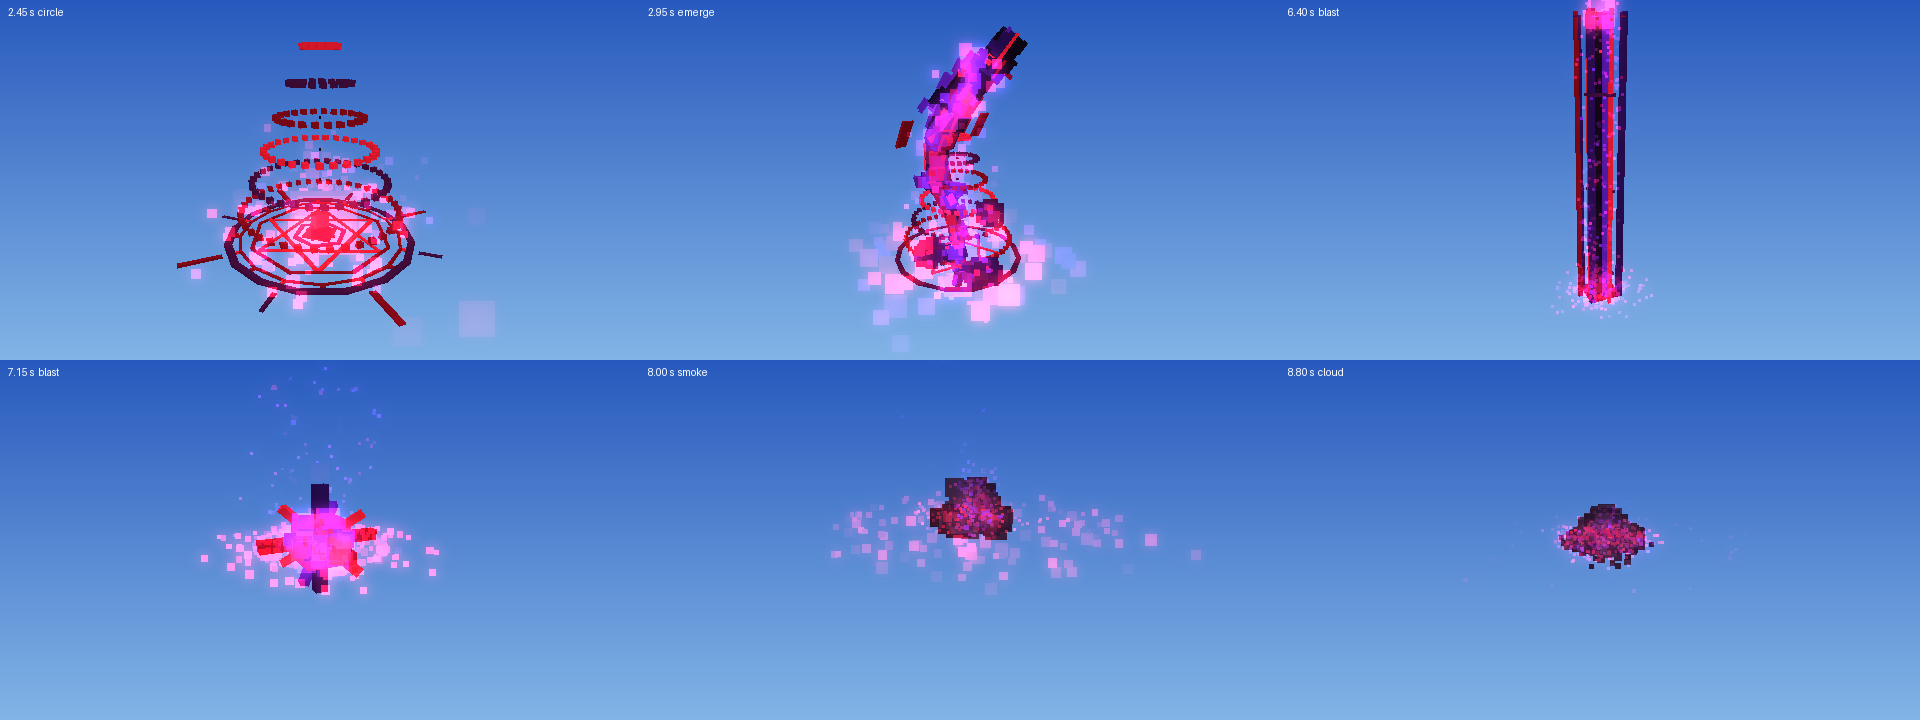
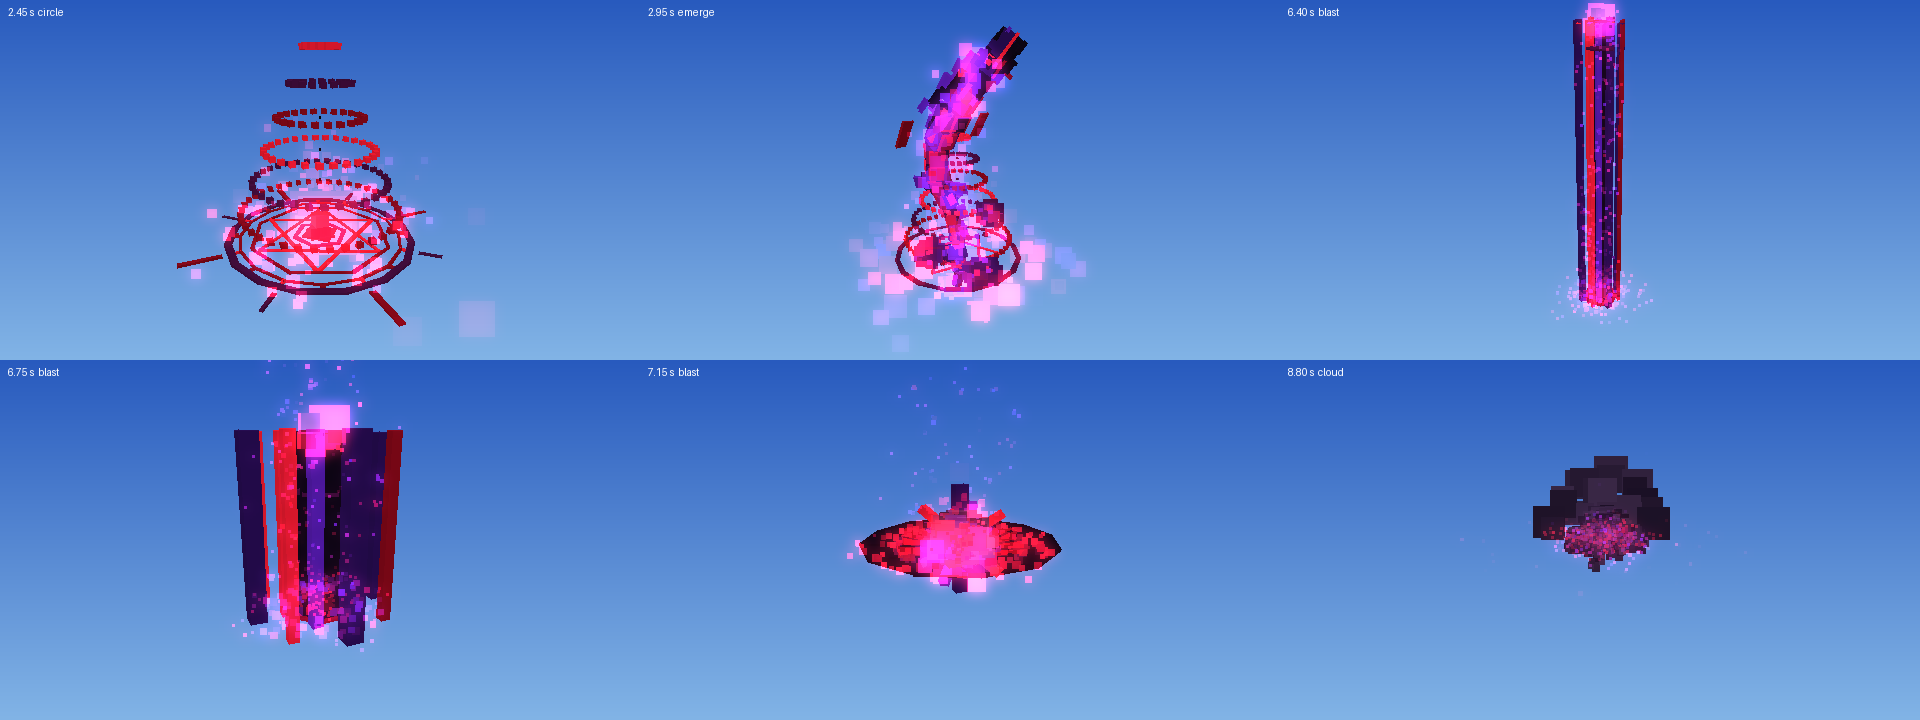
Round beam (eight-sided core, foot and collars) and a rounder, bigger explosion: ball, 22 spikes, round shock discs, particle dome

diff --git a/dragon_pulse/world_code.js b/dragon_pulse/world_code.js
@@ -182,35 +182,57 @@ var DP_MESH = {
   ],
 
   beam: [
-    ["M", 1.3, 1, 1.3, "void", 0, 0, 0, "spin"],
-    ["M", 0.35, 1, 0.35, "crimson", 1.1, 0, 0],
-    ["M", 0.35, 1, 0.35, "crimson", -1.1, 0, 0],
-    ["M", 0.35, 1, 0.35, "deep", 0, 1.1, 0, "m"],
+    ["M", 0.61, 1, 1.48, "void", 0, 0, 0],
+    ["M", 0.61, 1, 1.48, "void", 0, 0, 0, "", 45],
+    ["M", 0.61, 1, 1.48, "void", 0, 0, 0, "", 90],
+    ["M", 0.61, 1, 1.48, "void", 0, 0, 0, "", 135],
+    ["M", 0.35, 1, 0.35, "crimson", 1.15, 0, 0],
+    ["M", 0.35, 1, 0.35, "crimson", -1.15, 0, 0],
+    ["M", 0.35, 1, 0.35, "deep", 0.575, 0.996, 0, "m"],
+    ["M", 0.35, 1, 0.35, "deep", -0.575, 0.996, 0, "m"],
   ],
 
   beam2: [
-    ["M", 0.5, 1, 0.5, "night", 1.55, 1.55, 0, "m"],
-    ["M", 0.5, 1, 0.5, "night", -1.55, 1.55, 0, "m"],
-    ["M", 0.28, 1, 0.28, "blood", 2.3, 0, 0],
-    ["M", 0.28, 1, 0.28, "blood", -2.3, 0, 0],
-    ["M", 0.28, 1, 0.28, "crimson", 0, 2.3, 0, "m"],
+    ["M", 0.5, 1, 0.5, "night", 2.1, 0, 0],
+    ["M", 0.5, 1, 0.5, "night", -2.1, 0, 0],
+    ["M", 0.5, 1, 0.5, "night", 0, 2.1, 0, "m"],
+    ["M", 0.28, 1, 0.28, "blood", 1.485, 1.485, 0, "m"],
+    ["M", 0.28, 1, 0.28, "crimson", -1.485, 1.485, 0, "m"],
   ],
 
   blast: [
-    ["M", 1.2, 1.2, 1.2, "crimson", 0, 0, 0, "spin"],
+    ["M", 1.1, 1.1, 1.1, "crimson", 0, 0, 0],
+    ["M", 1.1, 1.1, 1.1, "crimson", 0, 0, 0, "f"],
+    ["M", 1.1, 1.1, 1.1, "blood", 0, 0, 0, "o"],
     ["M", 3.4, 0.3, 0.3, "blood", 0, 0, 0],
     ["M", 0.34, 3, 0.34, "night", 0, 0, 0],
     ["M", 0.3, 0.3, 3.4, "blood", 0, 0, 0],
+    ["M", 0.3, 0.3, 3.4, "blood", 0, 0, 0, "f"],
+    ["M", 0.3, 0.3, 3.4, "blood", 0, 0, 0, "g"],
+    ["M", 0.2, 0.2, 2.6, "night", 0, 0, 0, "u"],
+    ["M", 0.2, 0.2, 2.6, "night", 0, 0, 0, "v"],
+    ["M", 0.2, 0.2, 2.6, "night", 0, 0, 0, "w"],
+    ["M", 0.2, 0.2, 2.6, "night", 0, 0, 0, "x"],
     ["M", 0.22, 0.22, 2.8, "crimson", 0, 0, 0, "a"],
     ["M", 0.22, 0.22, 2.8, "deep", 0, 0, 0, "b"],
     ["M", 0.22, 0.22, 2.8, "deep", 0, 0, 0, "c"],
     ["M", 0.22, 0.22, 2.8, "crimson", 0, 0, 0, "d"],
+    ["M", 1.37, 0.05, 5.12, "void", 0, 0, 0],
+    ["M", 1.37, 0.05, 5.12, "void", 0, 0, 0, "h"],
+    ["M", 1.37, 0.05, 5.12, "void", 0, 0, 0, "j"],
+    ["M", 1.37, 0.05, 5.12, "void", 0, 0, 0, "q"],
+    ["M", 1.37, 0.05, 5.12, "void", 0, 0, 0, "y"],
+    ["M", 1.37, 0.05, 5.12, "void", 0, 0, 0, "z"],
+    ["M", 1.19, 0.1, 2.86, "blood", 0, 0, 0],
+    ["M", 1.19, 0.1, 2.86, "blood", 0, 0, 0, "f"],
+    ["M", 1.19, 0.1, 2.86, "blood", 0, 0, 0, "q"],
+    ["M", 1.19, 0.1, 2.86, "blood", 0, 0, 0, "g"],
   ],
 
   beamTop: [
-    ["M", 2.2, 2.2, 2.2, "crimson", 0, 0, 0, "spin"],
-    ["M", 4.4, 0.16, 4.4, "blood", 0, 0, 0, "spin"],
-    ["M", 2.8, 0.26, 2.8, "wine", 0, 0, 0, "spin"],
+    ["M", 2.2, 2.2, 2.2, "crimson", 0, 0, 0],
+    ["M", 1.84, 0.16, 4.43, "blood", 0, 0, 0],
+    ["M", 1.22, 0.26, 2.96, "wine", 0, 0, 0],
   ],
 }
 
@@ -222,7 +244,24 @@ var DP_ORBS = [
   [-17.5, 1.5, 0.2],
 ]
 
-var DP_DIAG = { a: [1, 1, 1], b: [-1, 1, 1], c: [1, 1, -1], d: [-1, 1, -1] }
+var DP_DIAG = {
+  a: [1, 1, 1],
+  b: [-1, 1, 1],
+  c: [1, 1, -1],
+  d: [-1, 1, -1],
+  f: [1, 0, 1],
+  g: [1, 0, -1],
+  h: [0.5, 0, 0.866],
+  j: [0.866, 0, 0.5],
+  q: [1, 0, 0],
+  y: [0.866, 0, -0.5],
+  z: [0.5, 0, -0.866],
+  o: [0, 1, 1],
+  u: [0.924, 0, 0.383],
+  v: [0.383, 0, 0.924],
+  w: [-0.383, 0, 0.924],
+  x: [-0.924, 0, 0.383],
+}
 
 var DP_FX = {
   mote: { tex: "glint", life: [0.5, 0.9], size: [0.15, 0.35], speed: [2, 5], col: ["tint", "tint2"], fade: [1, 0], blend: 2 },
@@ -393,9 +432,18 @@ function dpBars(c, name, tag, base, k, w, tall) {
     dpPut(c, tag + i, r, "", dpAt(base, DP_UP, r[5] * w, r[6] * w, tall / 2), null, k)
     var box = dpBox(r, "", w)
     box.height = tall
-    if (c.m[tag + i]) api.updateMeshEntity(c.m[tag + i], "Box", box)
+    if (!c.m[tag + i]) return
+    api.updateMeshEntity(c.m[tag + i], "Box", box)
+    if (r[9]) api.setEntityRotation(c.m[tag + i], 0, (r[9] * Math.PI) / 180, 0)
   })
 }
+
+var dpTurn = [
+  [0, 0, 1],
+  [0.707, 0, 0.707],
+  [1, 0, 0],
+  [0.707, 0, -0.707],
+]
 
 function dpBeam(c, base, k, tall, wide, two) {
   var w = k * (wide || 1)
@@ -405,8 +453,8 @@ function dpBeam(c, base, k, tall, wide, two) {
   dpSize = 2 * k
   dpShape("ray", dpAdd(base, [0, 1, 0], tall), dpBall(10), 1.1 * k, 0)
   dpSize = 1
-  dpPut(c, "beam_base", top[1], "", dpAdd(base, [0, 1, 0], 0.1), null, k)
-  for (var n = 0; n < 3; n++) dpPut(c, "beam_ring" + n, top[2], "", dpAdd(base, [0, 1, 0], tall * ((n / 3 + c.t * 0.11) % 1)), null, k)
+  for (var n = 0; n < 4; n++) dpPut(c, "beam_base" + n, top[1], "", dpAdd(base, [0, 1, 0], 0.1), dpTurn[n], w)
+  for (var n = 0; n < 8; n++) dpPut(c, "beam_ring" + n, top[2], "", dpAdd(base, [0, 1, 0], tall * (((n >> 2) / 2 + c.t * 0.11) % 1)), dpTurn[n % 4], k)
   dpFx("mote", base, 8, 1.4 * k, "magenta", "white", [0, 1, 0])
   dpFx("flash", dpAdd(base, [0, 1, 0], tall), 6, k)
   dpFx("glow", dpAdd(base, [0, 1, 0], tall), 2, k, "magenta")
@@ -448,6 +496,12 @@ function dpBlast(c, base, k, e, ring) {
   dpFx("ember", base, 8, ring * g * 0.5, "crimson", "blood", null, 2)
   if (e % 3 === 0) dpFx("wave", base, 14, 0.5)
   if (e % 2 === 0) dpRingFx("shock", base, ring * (0.1 + g * 0.8), 4, 1, 0.08, "crimson", "blood", 10, e * 0.4)
+  if (e === 0 || e === 4) {
+    var dome = dpBall(e ? 40 : 56).filter((d) => d[1] > -0.05)
+    dpSize = k * (e ? 1.6 : 1.2)
+    dpShape(e ? "puff" : "front", dpAdd(base, [0, 1, 0], k), dome, ring * 0.12, ring * (e ? 0.5 : 1.5), "crimson", "blood", e ? 1 : 0)
+    dpSize = 1
+  }
   if (e === 0) {
     dpFx("glow", base, 10, 3 * k, "crimson")
     dpRingFx("smoke", base, ring * 0.2, 4, 1, 0.3, "", "", 8)

diff --git a/dragon_pulse/tools/render.py b/dragon_pulse/tools/render.py
@@ -127,7 +127,7 @@ strip.resize((W * 2, H * 3 // 2)).save(os.path.join(out, 'timeline.png'))
 # Six moments from close by. The last two are two dragons that met.
 tick_of = lambda frames, ph, i: [f['t'] for f in frames if f['ph'] == ph][i]
 shots = [(one, one_live, 0, -1, 11), (one, one_live, 1, 9, 16), (one, one_live, 5, 22, 75),
-         (one, one_live, 5, 37, 45), (one, one_live, 6, 5, 30), (two, two_live, 9, 9, 110)]
+         (one, one_live, 5, 29, 40), (one, one_live, 5, 37, 45), (two, two_live, 9, 9, 110)]
 sheet = Image.new('RGB', (W * 3, H * 2))
 for i, (frames, live, ph, at, back) in enumerate(shots):
     t = tick_of(frames, ph, at)

diff --git a/README.md b/README.md
@@ -133,9 +133,9 @@ The meshes sit over your own skin; they do not hide it.
 
 | File | Goes into | Characters | Limit |
 |---|---|---|---|
-| `world_code.js` | World Code | 42,281 | 512,000 |
-| `goodra.js` | World Code, below `world_code.js` | 10,215 | 512,000 together: 52,497 |
-| `skin.js` | World Code | 6,032 | 512,000, all three together: 58,530 |
+| `world_code.js` | World Code | 44,134 | 512,000 |
+| `goodra.js` | World Code, below `world_code.js` | 10,215 | 512,000 together: 54,350 |
+| `skin.js` | World Code | 6,032 | 512,000, all three together: 60,383 |
 | `code_block.js` | Code Block | 18 | 32,000 |
 | `studio/particles_only.code_block.js` | Code Block | 6,430 | 32,000 |
 
@@ -151,10 +151,10 @@ the table columns mean is written on this page instead.
 | seek | It circles at the top, then picks its target; a ring flashes on the target | the same dragon | 3.15–3.75 |
 | dive | It weaves down onto the target | the same dragon, shimmer particles | 3.75–4.7 |
 | coil | It wraps round the target; two stars flash | no meshes: each star is 48 particles placed along 12 rays, plus sparks | 4.7–5.3 |
-| beam | The dragon turns into a massive black beam that shoots 72 blocks straight up from the target | 9 meshes: a black core and four thin red and purple beams that grow, a ball of particles on the tip, a disc at the foot, three collars travelling up; rising sparks | 5.35–5.85 |
-| second beam | A second beam rises around the first in a fifth of a second and waits: the two throb and slowly thicken (about 9 blocks across) while light is pulled in at the foot and down from the tip | 8 more meshes: four near-black bars on the corners and four thin red bars outside the first beam; gathering glints, a red glow | 5.85–6.65 |
-| collapse | It all comes down: both beams sink from the top into the ground in 0.3 s and get twice as thick while they do | the same 18 meshes; streaks racing down | 6.65–6.95 |
-| blast | It explodes on the ground: a spiked star bursts out to 20 blocks across, three shock rings of particles widen at three heights out to the blast radius, then the star shrinks away. The target is killed at the first moment, others within 16 blocks are hurt and pushed | 8 meshes: the star (`blast`). The rings are 40, 32 and 24 particles, each placed on its circle; flashes, debris, embers, shock waves | 6.95–7.8 |
+| beam | The dragon turns into a massive round black beam that shoots 72 blocks straight up from the target | 22 meshes: an eight-sided black core (four boxes turned 45° apart), six thin red and purple beams round it, an eight-sided disc at the foot, two eight-sided collars travelling up; a ball of particles on the tip, rising sparks | 5.35–5.85 |
+| second beam | A second beam rises around the first in a fifth of a second and waits: the two throb and slowly thicken (about 9 blocks across) while light is pulled in at the foot and down from the tip | 8 more meshes: eight bars in a circle round the first beam, near-black and red in turn; gathering glints, a red glow | 5.85–6.65 |
+| collapse | It all comes down: both beams sink from the top into the ground in 0.3 s and get twice as thick while they do | the same 30 meshes, still round; streaks racing down | 6.65–6.95 |
+| blast | It explodes on the ground: a round burst: a ball with 22 spikes all round bursts out to 20 blocks across, a round black and red shock disc sweeps out over the ground to 31 blocks across, a dome of particles flies up and out, then a dome of smoke, three shock rings of particles widen at three heights out to the blast radius, then the star shrinks away. The target is killed at the first moment, others within 16 blocks are hurt and pushed | 26 meshes (`blast`): a 3-box ball, 13 ray boxes, a twelve-sided disc of 6 boxes and an eight-sided disc of 4. The rings are 40, 32 and 24 particles, each placed on its circle; flashes, debris, embers, shock waves | 6.95–7.8 |
 | smoke | A ball of dark smoke swells and rises, with a ring of dust rolling out | no meshes: 26 + 14 + 14 smoke particles placed on spheres and 20 on the dust ring, plus sparks | 7.8–9.6 |
 
 After two dragons touch, the one that is left runs these steps instead:
@@ -162,8 +162,8 @@ After two dragons touch, the one that is left runs these steps instead:
 | Step | What happens | Built from | Lasts |
 |---|---|---|---|
 | mega | The merged dragon, 2.2 times the size, spirals 22 blocks up | the same 113 meshes, bigger | 1.2 s |
-| beam | A beam more than twice as thick again shoots from the ground up through the dragon and 50 blocks past it | the same 10 meshes, bigger | 0.6 s |
-| nuke | A second beam joins it and waits about a second, both sink into the ground (up to 21 blocks thick), then it explodes: a star about 60 blocks across and three shock rings out to the kill radius. Everything within 44 blocks dies | the same meshes as the blast, three times the size | 2.2 s |
+| beam | A beam more than twice as thick again shoots from the ground up through the dragon and 50 blocks past it | the same 22 meshes, bigger | 0.6 s |
+| nuke | A second beam joins it and waits about a second, both sink into the ground (up to 15 blocks thick), then it explodes: a burst about 60 blocks across with a shock disc about 92 blocks across and three shock rings out to the kill radius. Everything within 44 blocks dies | the same meshes as the blast, three times the size | 2.2 s |
 | cloud | Smoke where the beam stood and rings of dust rolling out along the ground | no meshes: smoke balls of 40 and 24 particles and dust rings of 36 | 2.5 s |
 
 How long the dive takes depends on how far the target is. The clip in
@@ -183,10 +183,10 @@ Every mesh is one row in `DP_MESH` in `world_code.js`:
 | `pillar` | 1 | The pillar of light when the dragon comes out |
 | `head` | 55 | Dark purple skull and a snout that narrows to the tip; open lower jaw with its own tip and hinges; black horns in three pieces with magenta tips; a three-step crest; glowing red eyes in black sockets with slit pupils under heavy brows; a nose horn, snout ridge and forehead gem; big and small fangs, teeth, tongue and a glowing throat; whiskers, nostrils, mane, cheek fins with frill spikes, chin spikes, beard |
 | `body` | 58 | 12 segments from thick neck to thin tail, dark purple and near-black in turn; a tall magenta spine on each, bright violet belly plates, red stripes on both sides, a pair of wings with violet tips, a pair of fins, tail fins |
-| `beam` | 5 | The beam before each explosion: a core and four thin beams |
-| `beam2` | 8 | The second beam that waits before the explosion: four corner bars and four thin outer bars |
-| `blast` | 8 | The explosion on the ground: a turning core, three rays along the axes and four slanted rays |
-| `beamTop` | 3 | The ball on the beam's tip, the disc at its foot, and a collar that is used 3 times and travels up the beam |
+| `beam` | 10 | The beam before each explosion: an eight-sided core (4 boxes) and six thin beams round it |
+| `beam2` | 8 | The second beam that waits before the explosion: eight bars in a circle |
+| `blast` | 26 | The explosion on the ground: a ball (3 boxes), 13 ray boxes that make 22 spikes, and two round shock discs (6 and 4 boxes) |
+| `beamTop` | 3 | A spare ball, one slice of the disc at the beam's foot (used 4 times), and one slice of a collar (used 8 times, two collars) |
 
 Each beam also has a shock ring of 10 meshes that widens on the ground. It is
 made in code by `dpShock`, not from a table.
@@ -198,8 +198,8 @@ To change a part, change its row. To add one, add a row: the engine picks it up.
 
 Every row in `DP_MESH` is named `M`. What each row is, in order:
 
-- `beam`: core, front, back, then the two side beams.
-- `beamTop`: tip, foot, collar.
+- `beam`: the four core boxes, front, back, then the four side beams.
+- `beamTop`: ball, foot slice, collar slice.
 - `body`: for each of the 12 segments from neck to tail tip, the segment itself,
   then its spine, then (where it has them) its belly plate, side stripes, and
   wings or fins. The wing tips follow the wings. The last three rows are the tail
@@ -350,6 +350,15 @@ Set `vortex: false` in `DP_CFG` to turn it off. Not tested in the game: the
 vortex only shows if the game leaves particles behind when an emitter moves.
 If the particles move along with the emitter instead, it will look like two
 dark balls circling the dragon.
+
+### Round shapes from boxes
+
+The game only has box meshes, so a round shape is made from long boxes that
+cross in the middle: four boxes turned 45° apart give eight sides, six boxes
+turned 30° apart give twelve. The beam's core, its foot, its collars and the two
+shock discs of the explosion are built this way. A row of `beam` can carry its
+turn in degrees as a tenth value; rows of `blast` take their direction from
+`DP_DIAG` by flag letter.
 
 ### The Particle Studio scene
 
